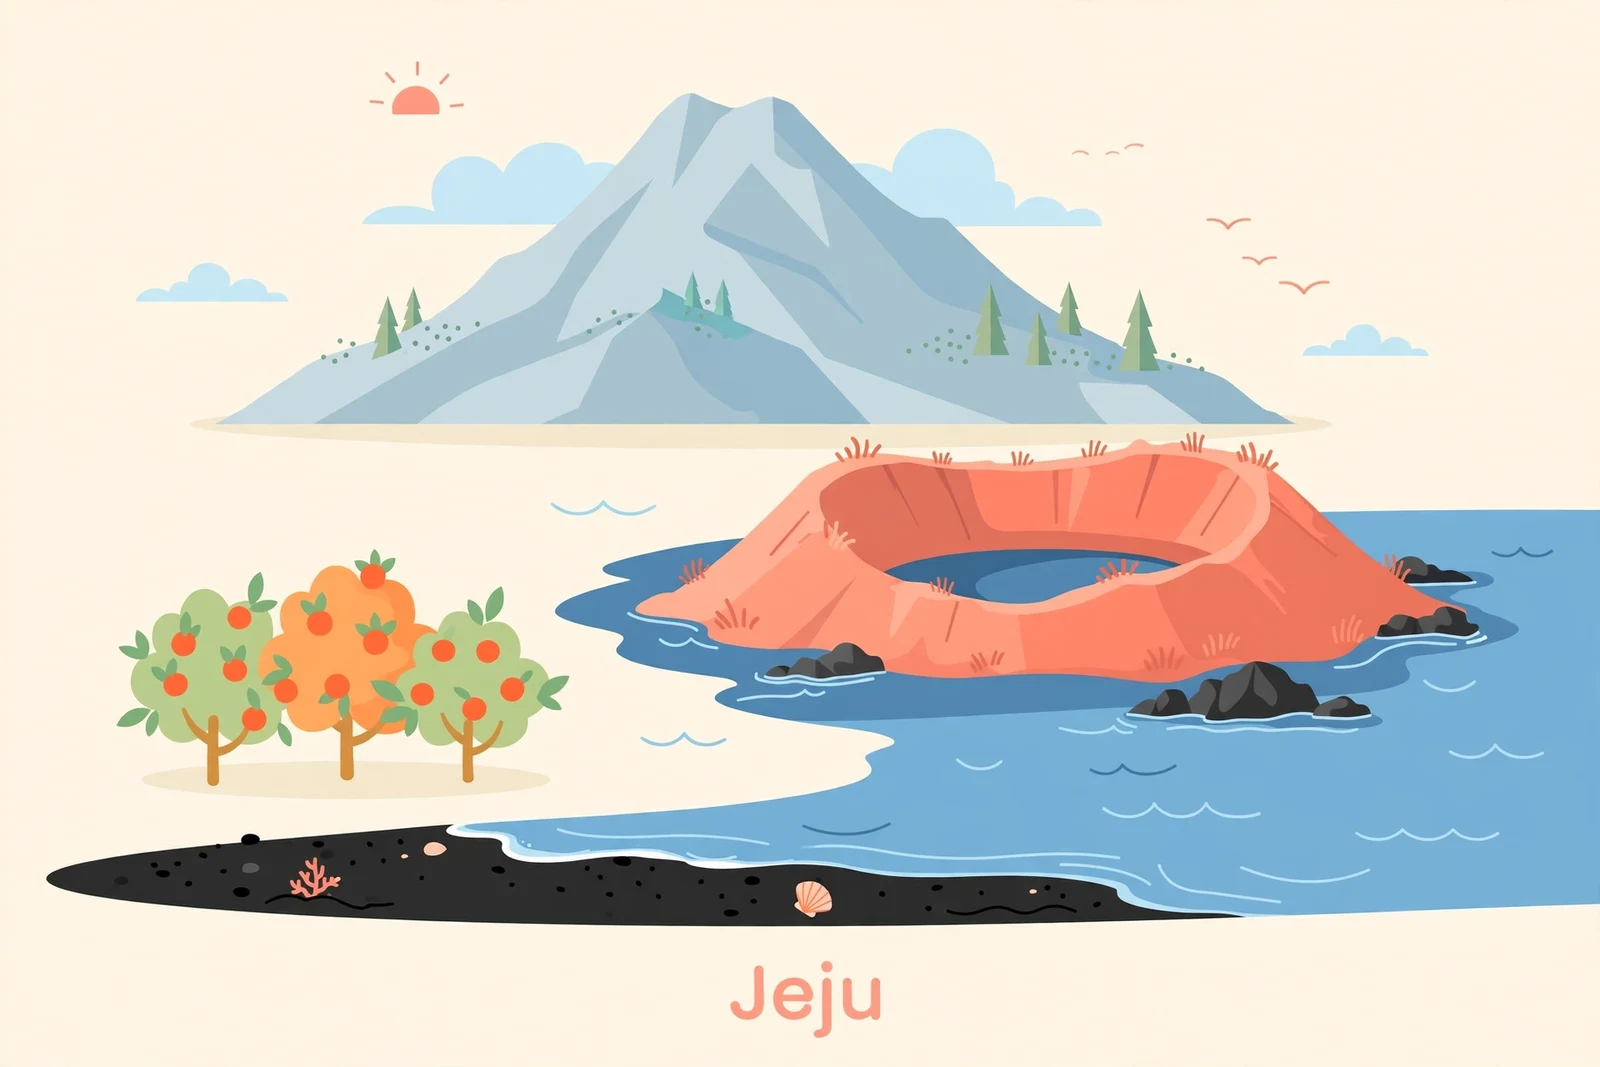
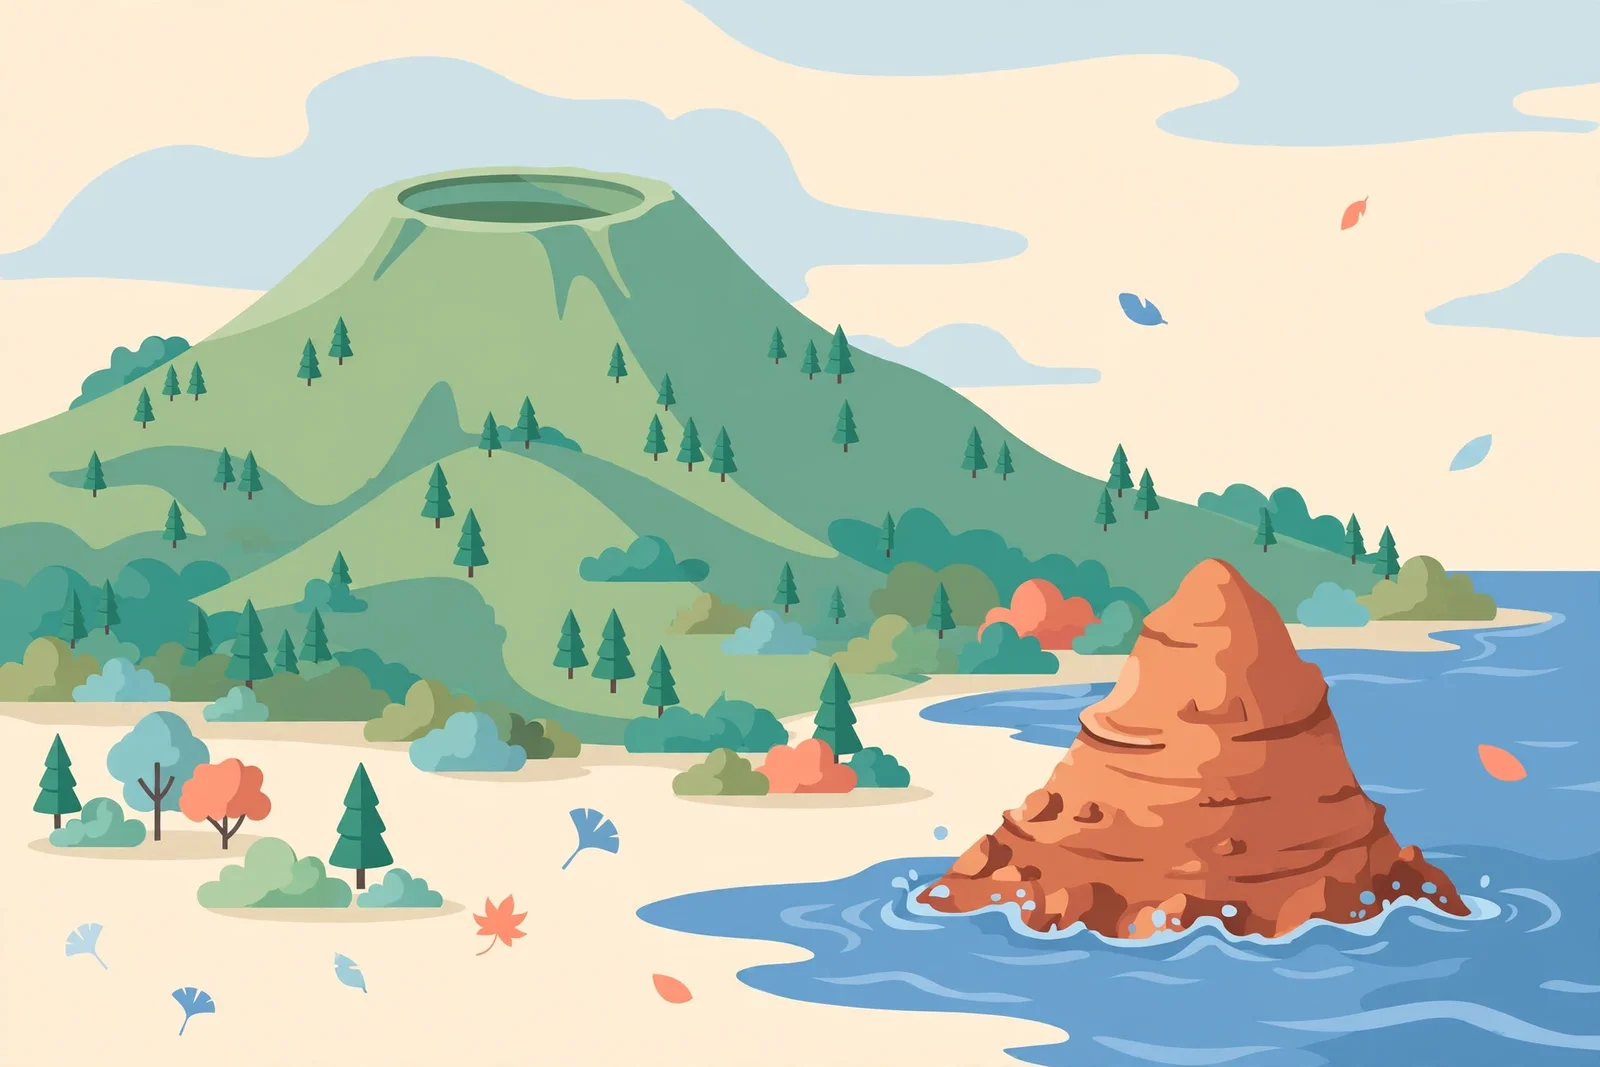
Hubs: replace the remaining 8 mood illustrations (text-free scene redesign)
- seoul, gyeongju, incheon, gyeonggi-suwon, gangwon, jeonju, jeju, daejeon:
  static/images/hubs/{slug}-mood.webp replaced, 1600x1067 webp, all under 200 KB
- MD5: seoul 7ed290b40026fb90c0fcfba9799d59b0, gyeongju f6de0117f17d9c25669fa09aa7806704,
  incheon d4ef9b691aa6732558cc5c0e028f1e5a, gyeonggi-suwon 9e4c42f459a2a871ed433399c935c53d,
  gangwon 1a2d6f2ed4c85a1286cb02af1238d6c0, jeonju ba914797ee6434f7766824a446ba5acc,
  jeju c530141fe8ecf2a89f60f9337c5f774a, daejeon c8509fa47784cbc4365214355a042c8f
- CREDITS.md: the 8 rows get the new scene descriptions, style note "English short labels
  only" -> "no text inside the art", and the separate daejeon section corrected (bakery
  scene / labels removed)
- daegu, gwangju, busan rows already current on main and left untouched
- photo-dims.yaml unchanged (still 1600x1067); alt text unchanged
- hugo --minify: 0 errors (EN 50 / KR 47)

diff --git a/static/images/photos/CREDITS.md b/static/images/photos/CREDITS.md
@@ -140,7 +140,7 @@ Flat vector guidebook illustrations (GPT image generation, 2026-11-19). Not phot
 
 ## GPT illustrations - home banner + region hub mood images (2026-11-19)
 
-Flat vector guidebook illustrations (GPT image generation, 2026-11-19). Not photos of real places; every caption says "Illustration: AI-generated". Style: bright pastel cream background, coral and sky blue accents, flat vector with soft shadows, generous whitespace, English short labels only.
+Flat vector guidebook illustrations (GPT image generation, 2026-11-19). Not photos of real places; every caption says "Illustration: AI-generated". Style: bright pastel cream background, coral and sky blue accents, flat vector with soft shadows, generous whitespace, no text inside the art.
 
 | File | Subject | Dimensions | Author | License | Source |
 |---|---|---|---|---|---|
@@ -148,15 +148,15 @@ Flat vector guidebook illustrations (GPT image generation, 2026-11-19). Not phot
 | home-banner-desktop@2x.webp | Same desktop banner art, 2x | 2560x1093 | AI-generated | - | Media image generation, 2026-11-19 (hero revamp). Same generation as home-banner-desktop.webp, Lanczos resized. |
 | home-banner-mobile.webp | Home hero banner, mobile: N Seoul Tower top centre, palace middle, Han River cruise boat bottom, cherry blossom corners. No text in the art. | 1080x1200 | AI-generated | - | Media image generation, 2026-11-19 (hero revamp). Generated 1440x1600 (exact 9:10), Lanczos resized. |
 | home-banner-mobile@2x.webp | Same mobile banner art, 2x | 2160x2400 | AI-generated | - | Media image generation, 2026-11-19 (hero revamp). Same generation as home-banner-mobile.webp, Lanczos upscaled 1.5x (flat vector, no detail loss). |
-| seoul-mood.webp | Seoul hub mood: Gyeongbokgung palace, N Seoul Tower, Han River, street food stall | 1600x1067 | AI-generated | - | GPT image generation, 2026-11-19 |
+| seoul-mood.webp | Seoul hub mood: N Seoul Tower on Namsan hill, Gyeongbokgung Palace roofs and red gate in the foreground, cherry blossom branches. No text in the art | 1600x1067 | AI-generated | - | GPT image generation, 2026-11-20 (redesign, replaces the 2026-11-19 four-panel version). Generated 1600x1067, webp q=85. Illustration: AI-generated |
 | busan-mood.webp | Busan hub mood: Gamcheon Culture Village hillside of pastel houses as the main subject, with Gwangan Bridge over the sea on the right. No text in the art | 1600x1067 | AI-generated | - | GPT image generation, 2026-11-20 (redesign, replaces the 2026-11-19 four-panel version). Generated 1600x1067, webp q=85. Illustration: AI-generated |
-| incheon-mood.webp | Incheon hub mood: Chinatown red gate, old port with a ship, seaside promenade, fairy tale village houses | 1600x1067 | AI-generated | - | GPT image generation, 2026-11-19 |
-| jeju-mood.webp | Jeju hub mood: Hallasan, Seongsan cone by the sea, orange grove, black sand beach | 1600x1067 | AI-generated | - | GPT image generation, 2026-11-19 |
-| gyeongju-mood.webp | Gyeongju hub mood: Bulguksa temple, royal tombs, Wolji Pond pavilion at night | 1600x1067 | AI-generated | - | GPT image generation, 2026-11-19 |
-| gangwon-mood.webp | Gangwon hub mood: beach with pines, coffee cup, lake pavilion, mountains | 1600x1067 | AI-generated | - | GPT image generation, 2026-11-19 |
-| jeonju-mood.webp | Jeonju hub mood: hanok rooftops, bibimbap bowl, traditional gate, lanterns | 1600x1067 | AI-generated | - | GPT image generation, 2026-11-19 |
-| gyeonggi-suwon-mood.webp | Suwon hub mood: Hwaseong Fortress wall and gate, palace pavilion, walking trail | 1600x1067 | AI-generated | - | GPT image generation, 2026-11-19 |
-| daejeon-mood.webp | Daejeon hub mood: bakery storefront with bread loaf sign, fried bread bun and chive bread on a tray, Expo Bridge arches, Hanbit Tower, pine trees | 1600x1067 | AI-generated | - | GPT image generation, 2026-11-19. Illustration: AI-generated |
+| incheon-mood.webp | Incheon hub mood: red Chinatown paifang gate with golden details and lanterns, harbor with a white ship and a lighthouse behind. No text in the art | 1600x1067 | AI-generated | - | GPT image generation, 2026-11-20 (redesign, replaces the 2026-11-19 four-panel version). Generated 1600x1067, webp q=85. Illustration: AI-generated |
+| jeju-mood.webp | Jeju hub mood: Hallasan volcano with a crater top and green pine slopes, Seongsan Ilchulbong tuff cone rising from the blue sea. No text in the art | 1600x1067 | AI-generated | - | GPT image generation, 2026-11-20 (redesign, replaces the 2026-11-19 four-panel version). Generated 1600x1067, webp q=85. Illustration: AI-generated |
+| gyeongju-mood.webp | Gyeongju hub mood: Donggung Palace and Wolji Pond pavilion at dusk, warm lights reflected in the pond, stone bridge, Bulguksa stone pagodas behind. No text in the art | 1600x1067 | AI-generated | - | GPT image generation, 2026-11-20 (redesign, replaces the 2026-11-19 four-panel version). Generated 1600x1067, webp q=85. Illustration: AI-generated |
+| gangwon-mood.webp | Gangwon hub mood: Seoraksan rocky granite peaks with pine trees, Gyeongpo Lake with a small wooden pavilion on the shore. No text in the art | 1600x1067 | AI-generated | - | GPT image generation, 2026-11-20 (redesign, replaces the 2026-11-19 four-panel version). Generated 1600x1067, webp q=85. Illustration: AI-generated |
+| jeonju-mood.webp | Jeonju hub mood: Pungnammun Gate with multi-tiered curved roofs on a stone base, Jeonju Hanok Village rooftops and red lanterns below. No text in the art | 1600x1067 | AI-generated | - | GPT image generation, 2026-11-20 (redesign, replaces the 2026-11-19 four-panel version). Generated 1600x1067, webp q=85. Illustration: AI-generated |
+| gyeonggi-suwon-mood.webp | Suwon hub mood: Hwaseong Fortress curved stone wall and Paldalmun Gate, Banghwasuryujeong pavilion by a pond. No text in the art | 1600x1067 | AI-generated | - | GPT image generation, 2026-11-20 (redesign, replaces the 2026-11-19 four-panel version). Generated 1600x1067, webp q=85. Illustration: AI-generated |
+| daejeon-mood.webp | Daejeon hub mood: Expo Bridge white arches over the river, Hanbit Tower behind, riverside park. No text in the art | 1600x1067 | AI-generated | - | GPT image generation, 2026-11-20 (redesign, replaces the 2026-11-19 four-panel version). Generated 1600x1067, webp q=85. Illustration: AI-generated |
 | daegu-mood.webp | Daegu hub mood: Gyesan Cathedral (brick twin towers, rose window, red doors) as the main subject, with a Seomun night market row of lit food stalls in the foreground. No text in the art | 1600x1067 | AI-generated | - | GPT image generation, 2026-11-20 (redesign, replaces the 2026-11-19 four-panel version). Generated 1600x1067, webp q=85. Illustration: AI-generated |
 | gwangju-mood.webp | Gwangju hub mood: Mudeungsan columnar rock ridges as the main subject, with the May 18 Democracy Square fountain, flags and pavilion below. No text in the art | 1600x1067 | AI-generated | - | GPT image generation, 2026-11-20 (redesign, replaces the 2026-11-19 four-panel version). Generated 1600x1067, webp q=85. Illustration: AI-generated |
 
@@ -232,11 +232,11 @@ All 6 verified by opening each file. Long edge 1600px for 4 photos; daejeon-04 (
 
 ## daejeon hub mood illustration (2026-11-19)
 
-Flat vector guidebook illustration (GPT image generation, 2026-11-19). Not a photo of a real place; caption says "Illustration: AI-generated". Style: bright pastel cream background, coral and sky blue accents, flat vector with soft shadows, generous whitespace, English short labels only.
+Flat vector guidebook illustration (GPT image generation, 2026-11-19). Not a photo of a real place; caption says "Illustration: AI-generated". Style: bright pastel cream background, coral and sky blue accents, flat vector with soft shadows, generous whitespace, no text inside the art.
 
 | File | Subject | Dimensions | Author | License | Source |
 |---|---|---|---|---|---|
-| hubs/daejeon-mood.webp | Daejeon hub mood: bakery storefront with bread loaf sign, fried bread bun and chive bread on a tray, Expo Bridge arches, Hanbit Tower, pine trees. Labels: Daejeon, Bread, Expo Bridge. | 1600x1067, 59 KB | AI-generated | - | GPT image generation, 2026-11-19 |
+| hubs/daejeon-mood.webp | Daejeon hub mood: Expo Bridge white arches over the river, Hanbit Tower behind, riverside park. No text in the art. | 1600x1067, 78 KB | AI-generated | - | GPT image generation, 2026-11-20 (redesign, replaces the 2026-11-19 four-panel version). Generated 1600x1067, webp q=85. Illustration: AI-generated |
 
 ## Semo stickers (replaced 2026-11-19, 2nd phase)
 
